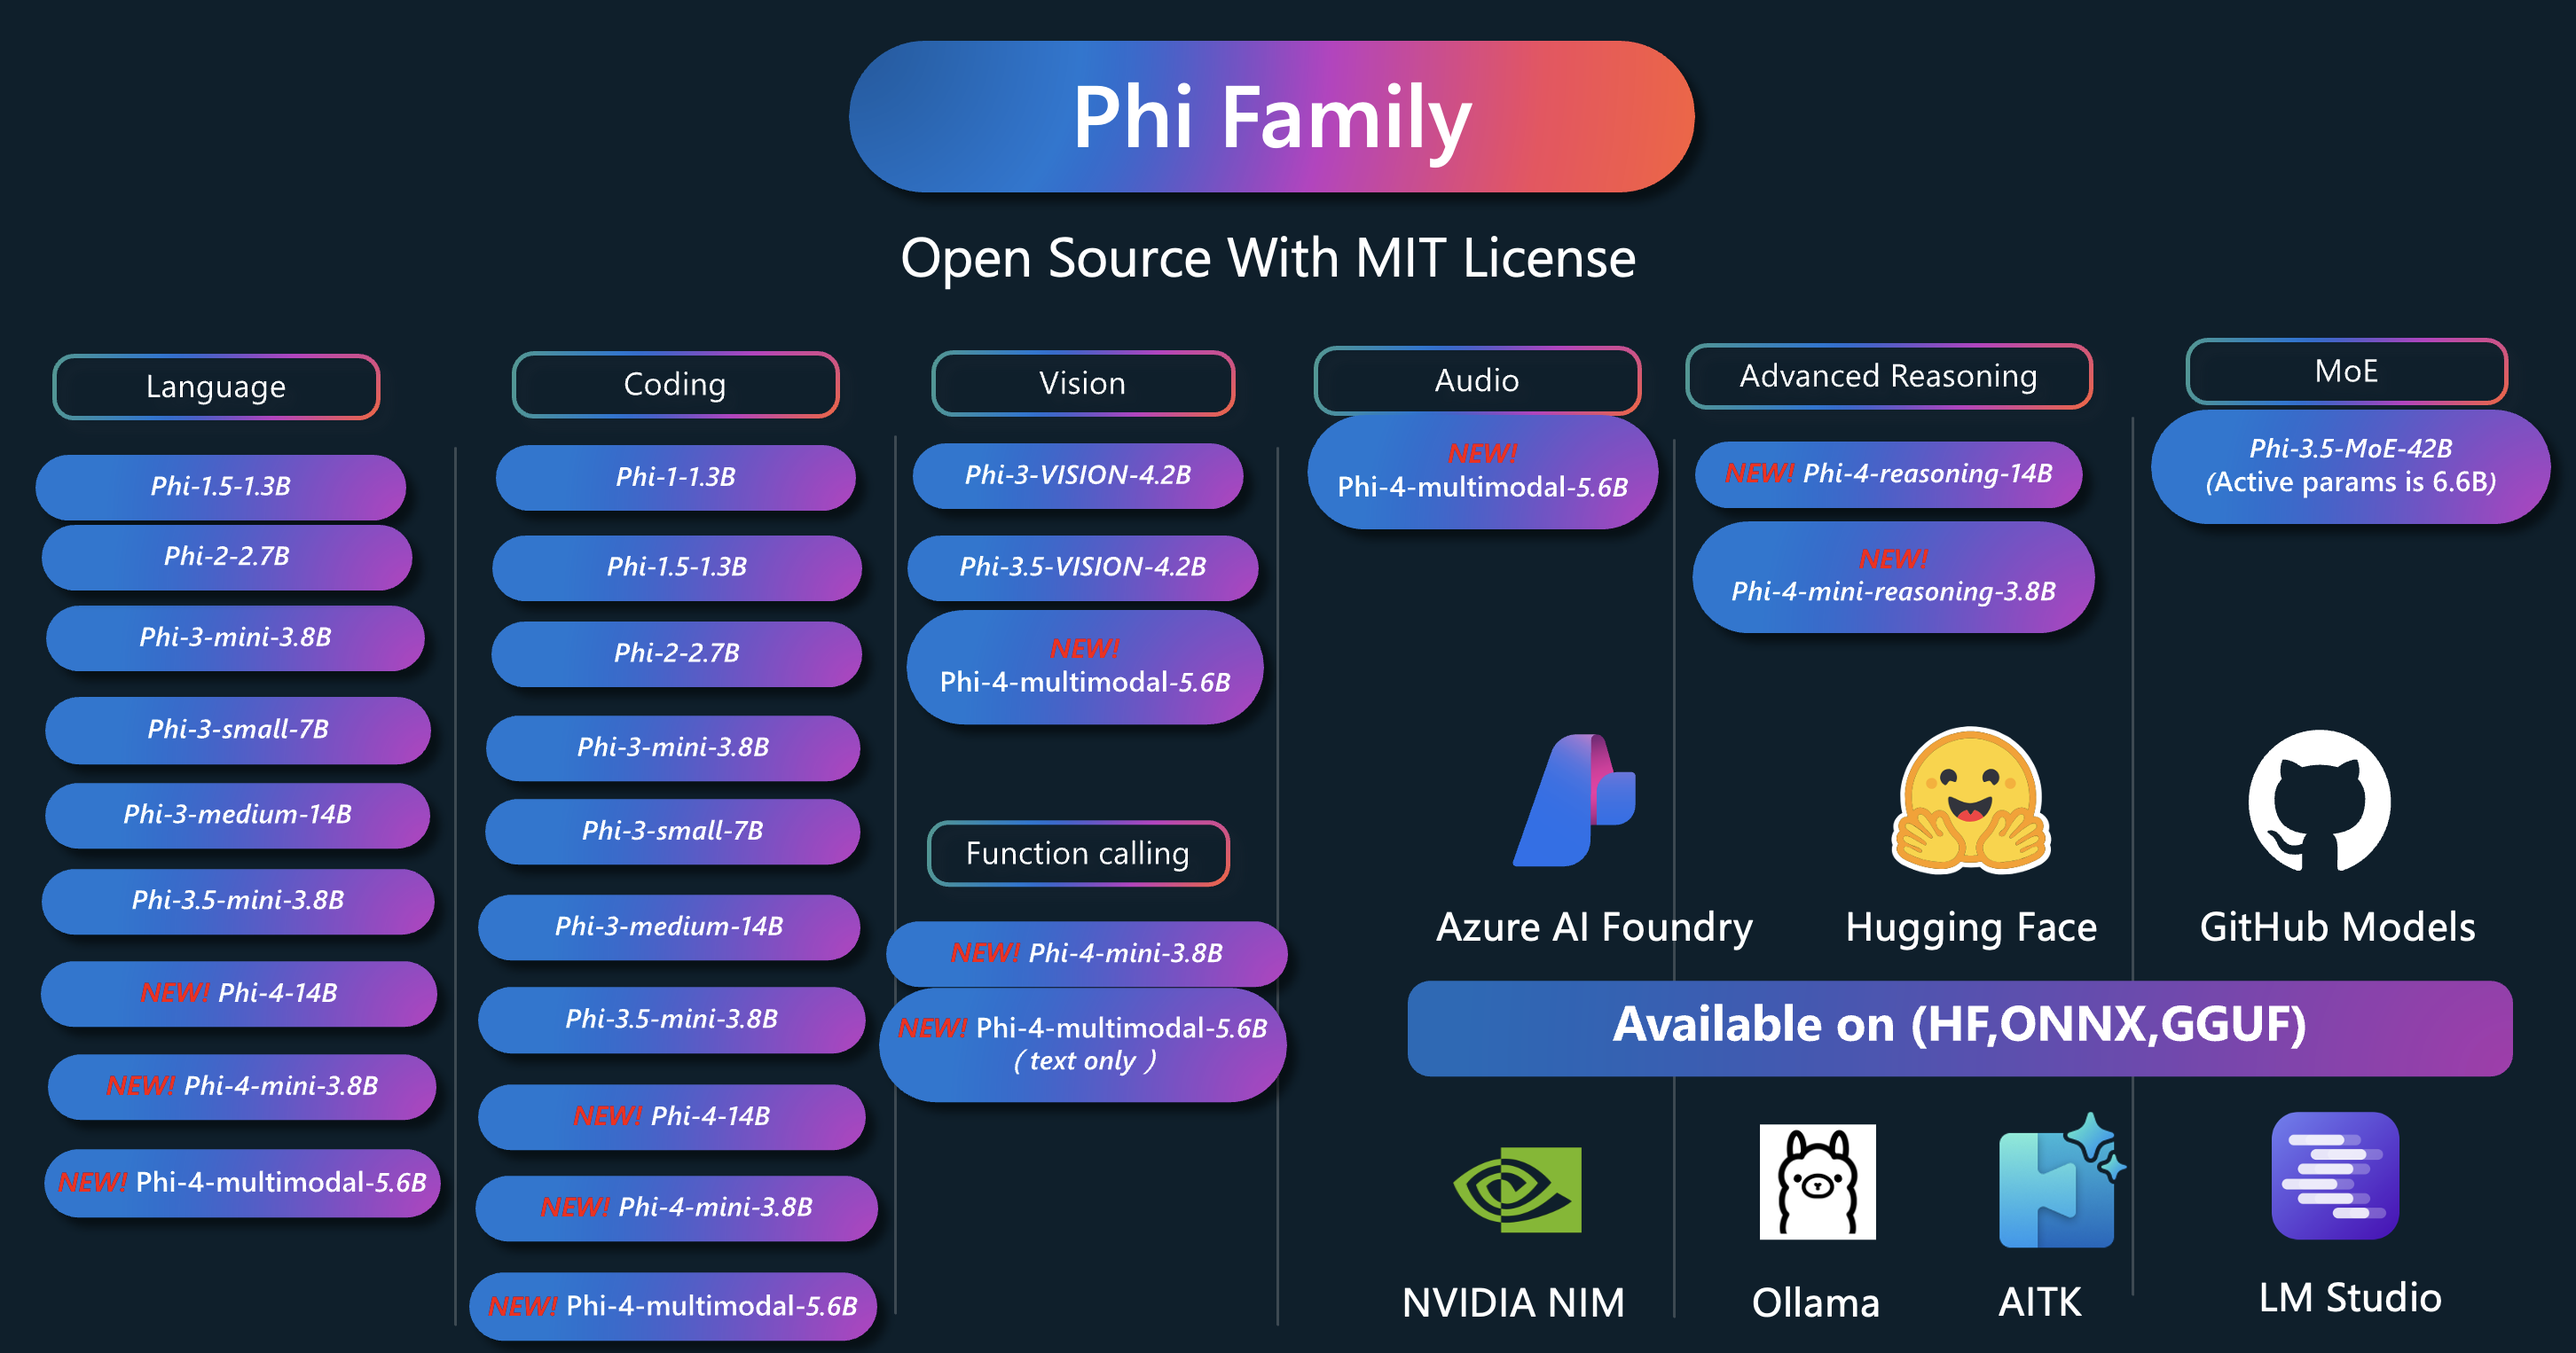
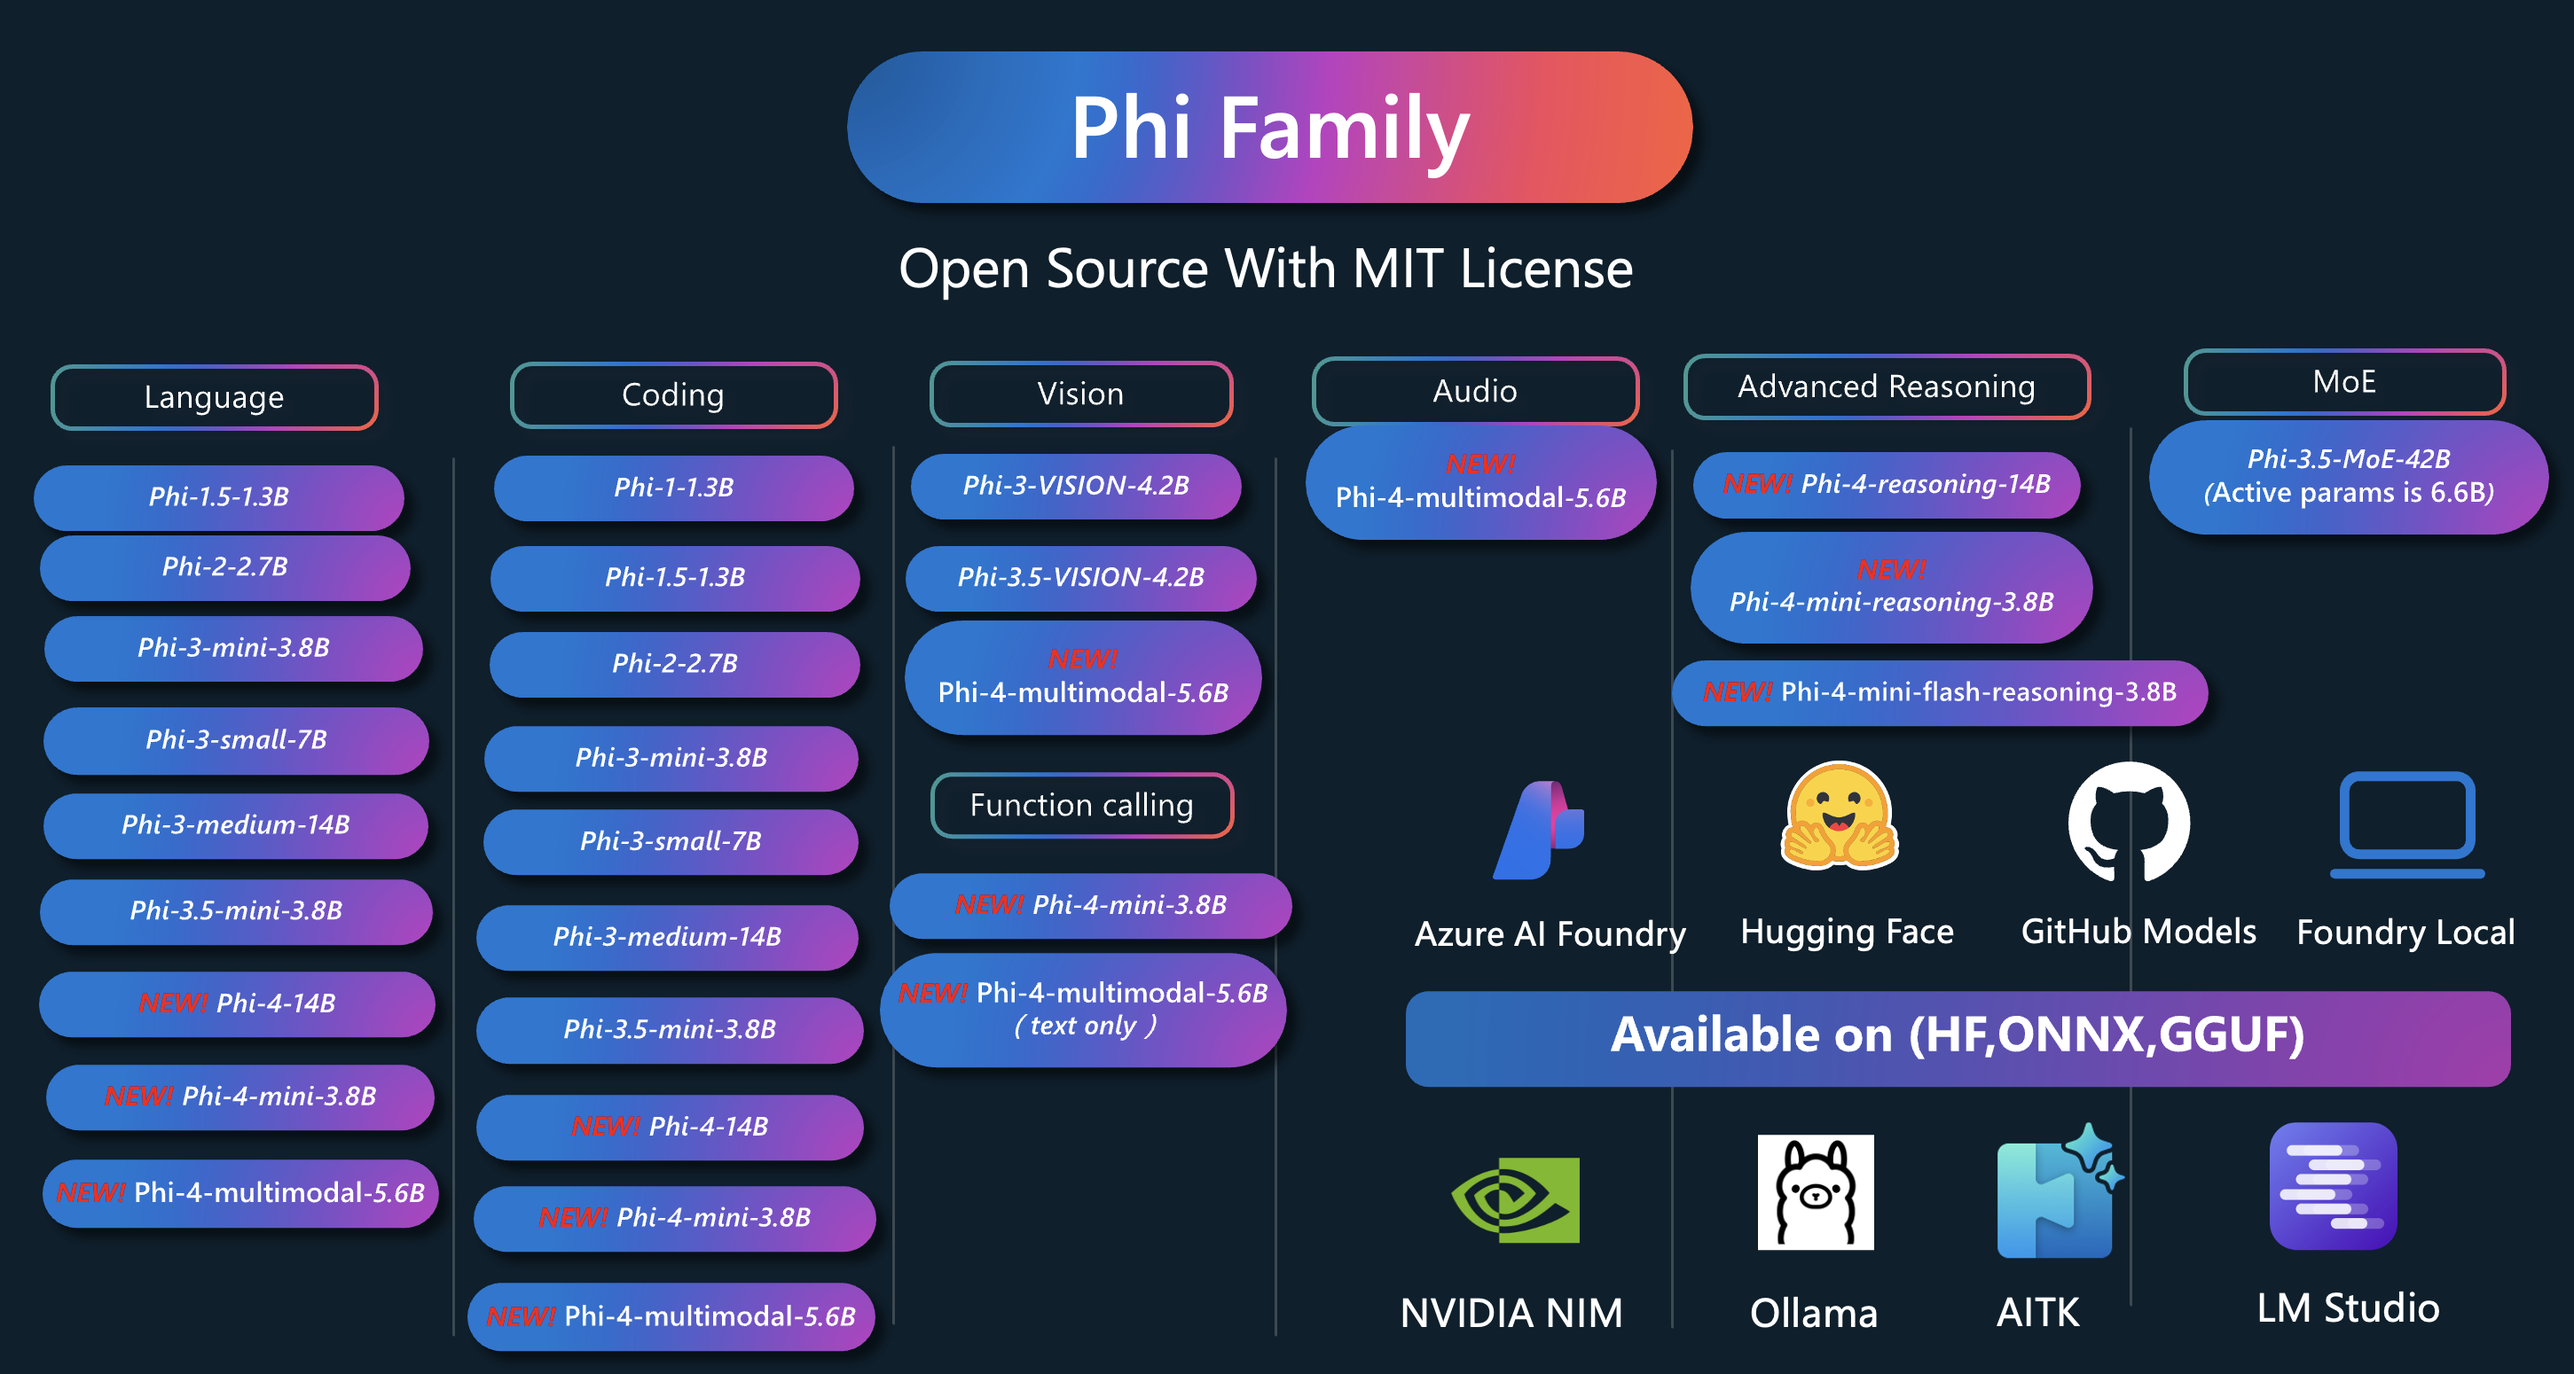
Add Phi-4-mini-flash-reasoning sample (#353)
* add foundry local and onnx funciton calling demo

* Update README.md

* Add Phi-4-mini-flash-reasoning

* Fix notebook

* fixed cover

diff --git a/README.md b/README.md
@@ -142,6 +142,9 @@ Follow these steps to get started using these resource :
       - [Phi-3 Vision Local ONNX Model using the Microsoft.ML.OnnxRuntime .NET](./md/04.HOL/dotnet/src/LabsPhi303/)
       - [Menu based Phi-3 Vision Local ONNX Model using the Microsoft.ML.OnnxRuntime .NET](./md/04.HOL/dotnet/src/LabsPhi304/)
 
+  - Math Samples
+    -  Phi-4-Mini-Flash-Reasoning-Instruct Samples 🆕 [Math Demo with Phi-4-Mini-Flash-Reasoning-Instruct](./md/02.Application/09.Math/MathDemo.ipynb)
+
   - Audio Samples
     - Phi-4 Samples 🆕
       - [📓] [Extracting audio transcripts using Phi-4-multimodal](./md/02.Application/05.Audio/Phi4/Transciption/README.md)
@@ -153,6 +156,7 @@ Follow these steps to get started using these resource :
     - Phi-3 / 3.5 Samples
       - [📓] [Phi-3.5 Mixture of Experts Models (MoEs) Social Media Sample](./md/02.Application/06.MoE/Phi3/phi3_moe_demo.ipynb)
       - [📓] [Building a Retrieval-Augmented Generation (RAG) Pipeline with NVIDIA NIM Phi-3 MOE, Azure AI Search, and LlamaIndex](./md/02.Application/06.MoE/Phi3/azure-ai-search-nvidia-rag.ipynb)
+      - 
   - Function Calling Samples
     - Phi-4 Samples 🆕
       -  [📓] [Using Function Calling With Phi-4-mini](./md/02.Application/07.FunctionCalling/Phi4/FunctionCallingBasic/README.md)
